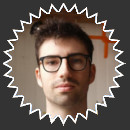
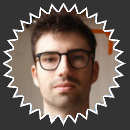
Add jeremy badge

diff --git a/css/live-code-review-theme.css b/css/live-code-review-theme.css
@@ -355,7 +355,7 @@
     margin: 0;
     padding: 0;
     position: absolute;
-    top: -30px;
+    top: -40px;
     width: 75px;
 }
 
@@ -381,7 +381,7 @@
 }
 
 .reveal .badge.jeremy {
-    background-image: url('../img/live-code-review/badge-empty-01.jpg');
+    background-image: url('../img/live-code-review/badge-jeremy-01.jpg');
 }
 
 .reveal .highlight {
